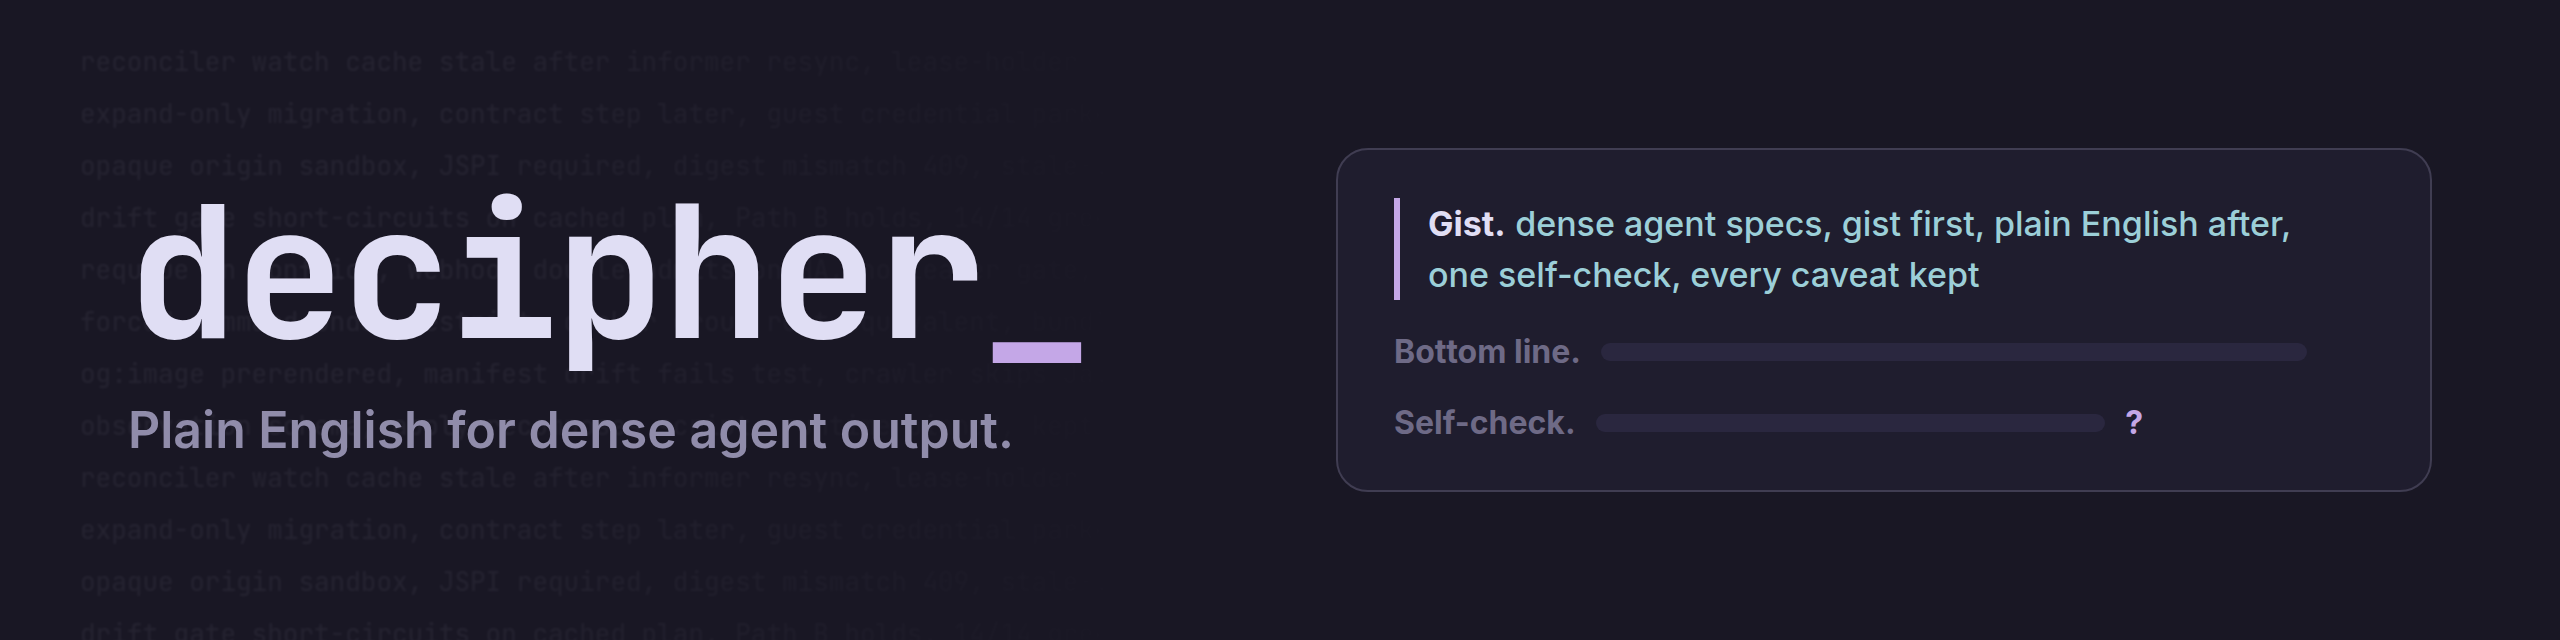
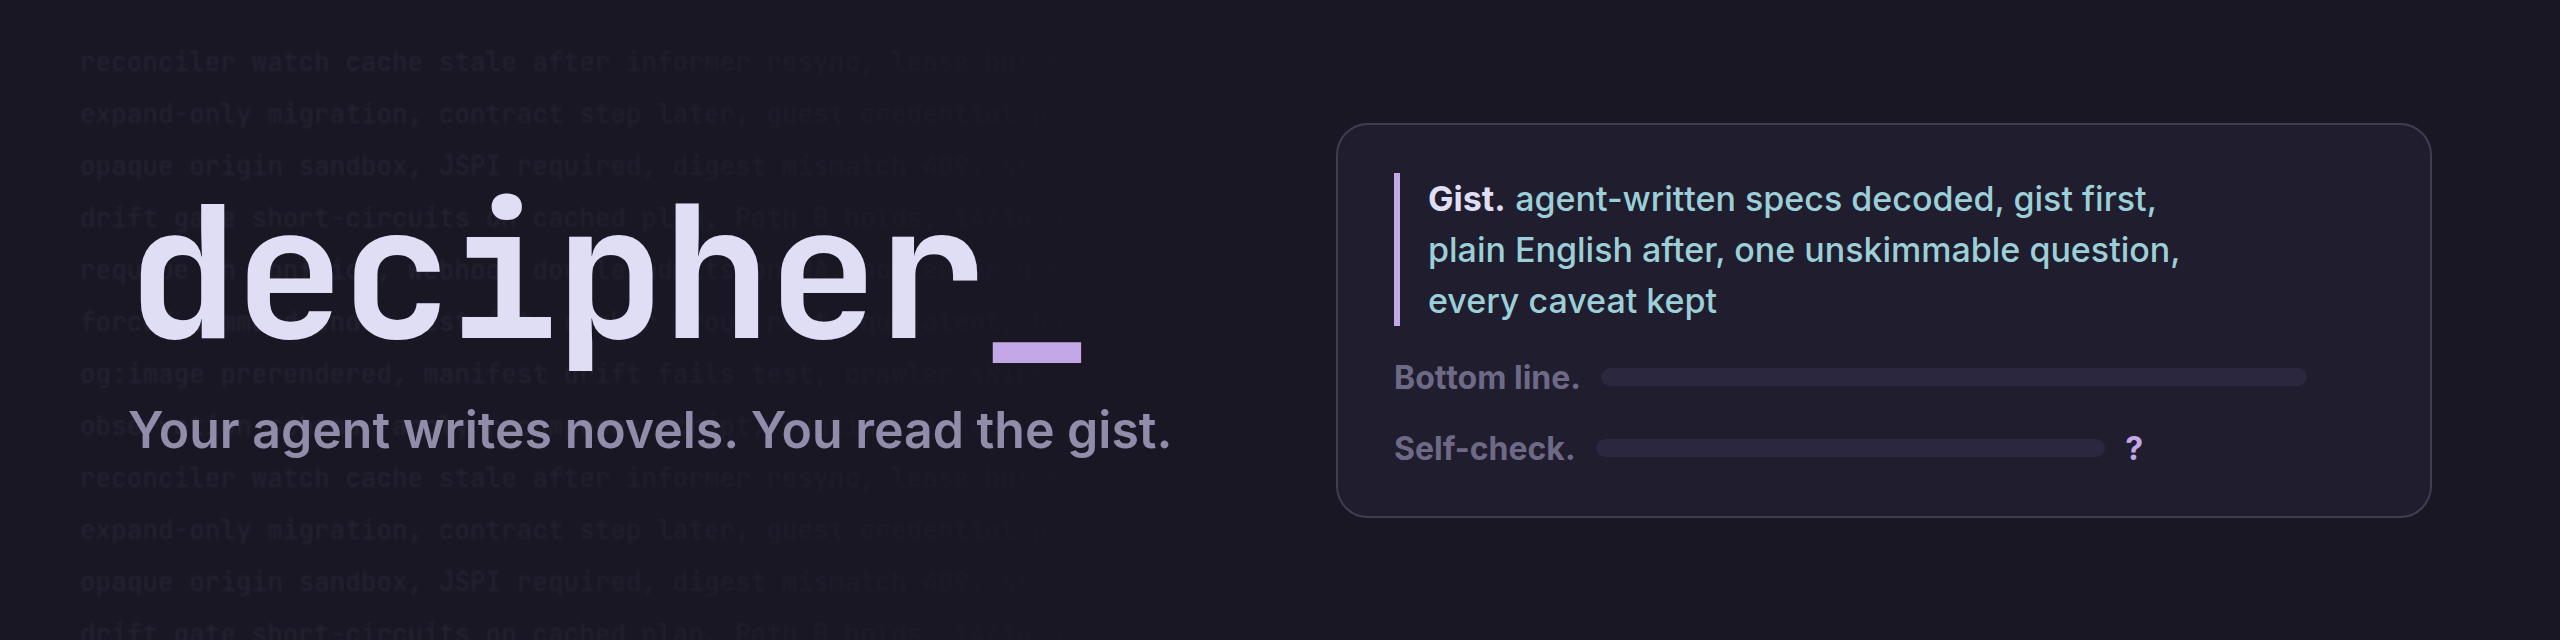
Rewrite the README in decipher's own format with a bolder voice
The README now opens with its own Gist, Bottom line, and Self-check, and
the copy is shorter and more direct. The banner and social preview carry
the tagline "Your agent writes novels. You read the gist." The hero and
example show a current-format run whose first three parts are the head.

diff --git a/assets/src/hero.html b/assets/src/hero.html
@@ -36,7 +36,7 @@
     --mark: #2a2837;
   }
   * { box-sizing: border-box; margin: 0; padding: 0; }
-  html, body { width: 880px; height: 400px; background: var(--base); }
+  html, body { width: 880px; height: 490px; background: var(--base); }
   body {
     font-family: "Inter", sans-serif;
     color: var(--text);
@@ -97,7 +97,9 @@
     border-radius: 4px;
   }
   .fade { color: var(--muted); }
-  body { grid-template-rows: 344px; }
+  body { grid-template-rows: 434px; }
+  .plain { font-size: 13px; line-height: 1.55; gap: 10px; }
+  .check { padding-top: 10px; border-top: 1px dashed var(--line); }
   .card { min-height: 0; overflow: hidden; }
   .spec { font-size: 12px; line-height: 1.65; color: var(--subtle); position: relative; overflow: hidden; flex: 1; }
   .spec h4 { font-size: 12.5px; color: var(--text); margin: 0 0 4px; }
@@ -112,22 +114,22 @@
 </head>
 <body>
   <div class="card before">
-    <div class="label"><span class="dot"></span>Agent-written spec<span class="count">1,323 words</span></div>
+    <div class="label"><span class="dot"></span>Agent-written spec<span class="count">1,618 words</span></div>
     <div class="spec">
       <h4>Goal</h4>
       <p>A LiCode link shared in Slack, LinkedIn, X, WhatsApp, iMessage or Discord unfurls into a card with the LiCode mark, a title and one line of description. A link to a case or a track shows that case's question or that track's destination, so a shared challenge reads as a challenge.</p>
       <h4>Sequence</h4>
       <p>Someone pastes a LiCode link into a chat or a post. That platform's crawler fetches the page without running JavaScript and reads the Open Graph and Twitter card tags in the HTML <code>&lt;head&gt;</code>. It then downloads the image the tags name and caches the card, usually for days.</p>
+      <p>The server writes those tags into <code>index.html</code> when it serves any page. It looks the requested path up in one function, <code>preview_for</code>, which returns the case, track or site card.</p>
     </div>
   </div>
   <div class="arrow">&rarr;</div>
   <div class="card after">
-    <div class="label"><span class="dot"></span>After decipher<span class="count">402 words</span></div>
+    <div class="label"><span class="dot"></span>After decipher<span class="count">you read 123 of 461 words</span></div>
     <div class="plain">
-      <p class="gist"><b>Gist.</b> <span>shared links become cards, case question not answer, images drawn ahead and committed, browser tab icon, approval and previews pending</span></p>
-      <p><b>Bottom line.</b> The spec makes a shared LiCode link show a card with a picture, a title and one line of text, instead of a bare URL. Nothing is built yet, because it waits for your approval and for you to see image previews.</p>
-      <p><b>Needs you.</b> Cloudflare's bot protection might block the crawlers without any error showing.</p>
-      <p class="fade">Terms, How it works, What changes, Held back &hellip;</p>
+      <p class="gist"><b>Gist.</b> <span>shared links become cards, server writes preview tags, images prerendered and committed, no answers on cards, text edits need rerender, merged but spec stale</span></p>
+      <p><b>Bottom line.</b> When someone pastes a LiCode link into a chat app, it now unfurls into a preview card, and the site has a browser tab icon. PR #18 merged this to main, and commit cb7cfce later re-rendered every image at double density. The spec's upper sections still describe a design the implementation replaced, so its &ldquo;Changes made during implementation&rdquo; list is the accurate part.</p>
+      <p class="check"><b>Self-check.</b> The spec draws every image ahead of time because the committed images cover every page that exists. Would you keep that design if cases started arriving without an author in the loop?</p>
     </div>
   </div>
 <script>

diff --git a/assets/src/social-preview.html b/assets/src/social-preview.html
@@ -68,7 +68,7 @@
   }
   .row { display: flex; align-items: center; gap: 12px; font-size: 20px; }
   .row b { font-weight: 700; white-space: nowrap; }
-  .gist { display: block; font-size: 25px; line-height: 1.45; padding-left: 18px; border-left: 4px solid var(--iris); }
+  .gist { display: block; font-size: 22px; line-height: 1.45; padding-left: 18px; border-left: 4px solid var(--iris); }
   .gist span { color: var(--pine); font-weight: 500; }
   .gist span span { white-space: nowrap; }
   .ghost b { color: var(--muted); }
@@ -101,11 +101,11 @@
   </div>
   <div class="brand">
     <div class="wordmark">decipher<span class="cursor">_</span></div>
-    <div class="tagline">Plain English for dense<br>agent output.</div>
+    <div class="tagline">Your agent writes novels.<br>You read the gist.</div>
     <div class="sub">A Claude Code plugin and Agent Skill</div>
   </div>
   <div class="head">
-    <div class="row gist"><b>Gist.</b> <span><span>dense agent specs,</span> <span>gist first,</span> <span>plain English after,</span> <span>one self-check,</span> <span>every caveat kept</span></span></div>
+    <div class="row gist"><b>Gist.</b> <span><span>agent-written specs decoded,</span> <span>gist first,</span> <span>plain English after,</span> <span>one unskimmable question,</span> <span>every caveat kept</span></span></div>
     <div class="row ghost"><b>Bottom line.</b> <i class="bar" style="width: 70%"></i></div>
     <div class="row ghost"><b>Self-check.</b> <i class="bar" style="width: 50%"></i><span class="q">?</span></div>
   </div>

diff --git a/assets/src/banner.html b/assets/src/banner.html
@@ -105,10 +105,10 @@
   </div>
   <div class="brand">
     <div class="wordmark">decipher<span class="cursor">_</span></div>
-    <div class="tagline">Plain English for dense agent output.</div>
+    <div class="tagline">Your agent writes novels. You read the gist.</div>
   </div>
   <div class="head">
-    <div class="row gist"><b>Gist.</b> <span><span>dense agent specs,</span> <span>gist first,</span> <span>plain English after,</span> <span>one self-check,</span> <span>every caveat kept</span></span></div>
+    <div class="row gist"><b>Gist.</b> <span><span>agent-written specs decoded,</span> <span>gist first,</span> <span>plain English after,</span> <span>one unskimmable question,</span> <span>every caveat kept</span></span></div>
     <div class="row ghost"><b>Bottom line.</b> <i class="bar" style="width: 72%"></i></div>
     <div class="row ghost"><b>Self-check.</b> <i class="bar" style="width: 52%"></i><span class="q">?</span></div>
   </div>

diff --git a/README.md b/README.md
@@ -1,11 +1,15 @@
 <p align="center">
   <picture>
     <source media="(prefers-color-scheme: dark)" srcset="assets/banner-dark.png">
-    <img alt="decipher. Plain English for dense agent output." src="assets/banner-light.png" width="100%">
+    <img alt="decipher. Your agent writes novels. You read the gist." src="assets/banner-light.png" width="100%">
   </picture>
 </p>
 
-decipher is a Claude Code plugin and Agent Skill that translates an agent-written spec, or any other technical document, into plain English an experienced engineer can follow on the first read. It keeps every identifier, number, and caveat.
+**Gist.** agent-written specs decoded, gist first, plain English after, one unskimmable question, every caveat kept
+
+**Bottom line.** Your agent writes a 1,600-word spec, and you approve it after a skim. decipher rewrites any agent-written document so its first three parts carry the whole idea in plain English, in about 120 words. The rest waits below as reference, and anything it skips is named.
+
+**Self-check.** You approved your agent's last spec. Could you name its riskiest assumption without opening it?
 
 [![validate](https://github.com/amk9978/decipher/actions/workflows/validate.yml/badge.svg)](https://github.com/amk9978/decipher/actions/workflows/validate.yml)
 [![License: MIT](https://img.shields.io/badge/license-MIT-blue.svg)](LICENSE)
@@ -13,19 +17,19 @@ decipher is a Claude Code plugin and Agent Skill that translates an agent-writte
 
 <picture>
   <source media="(prefers-color-scheme: dark)" srcset="assets/hero-dark.png">
-  <img alt="A 1,323-word agent-written spec on the left, and the opening of decipher's 402-word reply on the right, starting with its Gist line" src="assets/hero-light.png" width="880">
+  <img alt="A 1,618-word agent-written spec on the left, and the first three parts of decipher's reply on the right, its Gist, Bottom line, and Self-check" src="assets/hero-light.png" width="880">
 </picture>
 
 ## Install
 
-**Claude Code** gets the skill and the output style:
+**Claude Code** gets the skill and an always-on output style.
 
 ```text
 /plugin marketplace add amk9978/claude-plugins
 /plugin install decipher@amk9978
 ```
 
-**Other agents that read `SKILL.md`** get the skill:
+**Any other agent that reads `SKILL.md`** gets the skill.
 
 ```bash
 npx skills add amk9978/decipher
@@ -45,101 +49,94 @@ ln -s ~/decipher/output-styles/decipher.md ~/.claude/output-styles/decipher.md
 
 </details>
 
-## The problem
-
-Agent replies drift into shorthand. They use labels the agent invented, such as "Path B", and project terms nobody defined. They list files before saying what changed, and they report "31/31 green" without saying who ran the tests. A long report loses you by the third section, and a follow-up question loses your place.
-
-decipher fixes the reply you already have. Every explanation opens with the same head. The Gist is a few word phrases that carry the whole idea, the Bottom line says what the document does, and the Self-check tests whether you still follow. Many readers stop there. Needs you, How it works, What changes, and Held back follow as reference, with Terms added only when the source is heavy with jargon. The fixed layout teaches you where to look, and the reply stays under about 400 words however long the source is. decipher defines each term before the text uses it, puts events in the order they happened, and keeps what the source claims apart from what anyone verified.
-
-The Self-check is one question built from the document's own premise, which you answer to yourself. It asks for your judgment on the matter, so you can't answer it by scrolling back. If you can't answer it, you have stopped following, and that is the moment to step back before you approve anything.
-
-## Why not just ask for shorter output?
-
-A concision rule in `CLAUDE.md` or a planning plugin changes what an agent writes next. decipher works on a document that already exists, including one a teammate, another tool, or an earlier session wrote. It rewrites that document for a reader who lost the thread. It defines the source's terms from the source, puts events in time order, separates what the document claims from what anyone verified, and keeps your place through a long read. The output gets shorter only because it leaves out what you do not need.
-
 ## Use
 
-decipher works best on agent-written specs and design docs. It also handles PRs, reports, incident write-ups, READMEs, and agent replies. Say one of these after a document you could not follow.
-
-| You say | decipher does |
-|---|---|
-| simplify this, explain that again | Rewrites the latest reply, or a passage you name, in plain English |
-| walk me through a PR, report, or spec | Maps it into three to five parts and explains one part per turn |
-| continue, back, all at once, stop | Moves through a walkthrough |
-| I'm lost | Rebuilds the explanation from the goal with a different example |
-
-Every walkthrough turn ends with a bookmark footer. Side questions leave the bookmark where it was, and your unanswered questions stay under **Open** until they are answered.
-
-```markdown
-**Paused at:** part 2 of 4, retry logic
-**Open:** why the lock is per-tenant (+1 more)
-**Next:** part 3 of 4, the migration
-```
-
-### Plain replies on every turn
-
-The plugin and the clone install also ship an output style that applies decipher's writing rules to every reply. Select it in `~/.claude/settings.json`. A plugin install names it `decipher:Decipher`, and a clone install names it `Decipher`.
-
-```json
-{ "outputStyle": "decipher:Decipher" }
-```
-
-## Example
-
-A real run on a 1,323-word agent-written spec for link previews in LiCode, a code-review practice app. The reply is 402 words.
+Point it at a document, or say "decipher" after a reply that lost you.
 
 ```text
 /decipher specs/link-previews.md
 ```
 
-Opening of the reply:
+| Say | Get |
+|---|---|
+| decipher, simplify this | The latest reply or a named document, rewritten |
+| decipher, again on the same document | A new angle with none of the earlier sentences |
+| walk me through a spec, PR, or report | Three to five parts, one per turn, with a bookmark |
+| continue, back, all at once, stop | Moves through the walkthrough |
+| I'm lost | The goal again, from a different angle |
 
-**Gist.** shared links become cards, case question not answer, images drawn ahead and committed, browser tab icon, approval and previews pending
+Specs and design docs are home turf. PRs, reports, incident write-ups, READMEs, and agent replies work too.
 
-**Bottom line.** The spec makes a shared LiCode link show a card with a picture, a title and one line of text, instead of a bare URL. Nothing is built yet, because it waits for your approval and for you to see image previews. The only design choice that isn't routine is drawing the card images ahead of time.
+## Every answer, same shape
+
+```text
+Gist.          a few words that carry the whole idea
+Bottom line.   what it does, where it stands, what backs it
+Self-check.    one question you answer to yourself
+-------------  most readers stop here
+Terms.         only when the jargon would lose you
+Needs you.     decisions, blockers, risks
+How it works.  the steps, in order
+What changes.  who and what feels it
+Held back.     everything skipped, by name
+```
+
+The Self-check is the point. It comes from the document's own premise and asks for your judgment, so scrolling back won't answer it. Can't answer it? You've stopped steering. Take the wheel back before you approve anything.
+
+## "Can't I just tell Claude to be concise?"
+
+Go ahead. A concision rule shapes the next thing your agent writes. The 1,600-word spec already in your repo stays 1,600 words, and so does the PR a teammate's agent opened. decipher works on what already exists. It defines the jargon from the source, keeps what the document claims apart from what anyone verified, and checks that you still follow.
+
+## Always on
+
+The plugin also ships an output style that puts every reply in plain English. Select it in `~/.claude/settings.json`. A plugin install names it `decipher:Decipher`, and a clone install names it `Decipher`.
+
+```json
+{ "outputStyle": "decipher:Decipher" }
+```
+
+While decipher's rules apply, its own limits replace brevity budgets from other output styles, `CLAUDE.md`, and `AGENTS.md`. Your accuracy and punctuation rules still win.
+
+## A real run
+
+`/decipher` on a 1,618-word agent-written spec for link previews in LiCode, a code-review practice app. The reply runs 461 words, and the three parts you read first run 123.
 
 <details>
 <summary>Full reply</summary>
 
-**Gist.** shared links become cards, case question not answer, images drawn ahead and committed, browser tab icon, approval and previews pending
+**Gist.** shared links become cards, server writes preview tags, images prerendered and committed, no answers on cards, text edits need rerender, merged but spec stale
 
-**Bottom line.** The spec makes a shared LiCode link show a card with a picture, a title and one line of text, instead of a bare URL. Nothing is built yet, because it waits for your approval and for you to see image previews. The only design choice that isn't routine is drawing the card images ahead of time.
+**Bottom line.** When someone pastes a LiCode link into a chat app, it now unfurls into a preview card, and the site has a browser tab icon. PR #18 merged this to main, and commit cb7cfce later re-rendered every image at double density. The spec's upper sections still describe a design the implementation replaced, so its "Changes made during implementation" list is the accurate part.
 
-**Terms.**
-- **card**: the box a chat or social app shows for a pasted link
-- **crawler**: the program Slack, LinkedIn or X sends to read a pasted page
-- **manifest**: a file recording the text each committed image was drawn from
+**Self-check.** The spec draws every image ahead of time because the committed images cover every page that exists. Would you keep that design if cases started arriving without an author in the loop?
 
 **Needs you.**
-- Approve the spec, or tell me what to change.
-- Say whether I should render previews of the site card, a case card, a track card and the tab icon first.
-- After deploy, Cloudflare's bot protection might block the crawlers without any error showing, so the PR will record checks in each platform's inspector.
+- Four sections and the third open question still describe work the code replaced or finished, such as `manifest.json` and hand-numbered `-v1` image names.
+- Criterion 9 names the Facebook and LinkedIn inspectors and a Slack paste. The PR #18 comment instead records crawler user-agent requests and opengraph.xyz, and those checks ran before cb7cfce renamed every image.
+- The site card avoids calling every case real because LiCode's authors wrote the Cancel cleanly track and both investigation cases themselves.
+- Home still leads with "Make the call before you know how it ended", which may read as a different product from the card.
 
 **How it works.**
-1. A person pastes a LiCode link, and the app's crawler fetches that page without running JavaScript.
-2. LiCode's server adds the card details to the page it sends, because React's tags would arrive too late for a crawler.
-3. The server picks the details from the address. A case link gets its question, a track link gets its destination, and every other page gets the site card.
-4. A card shows only what the page shows before anyone answers, so it never reveals an answer, outcome or sender.
-5. The server can't draw images, because production has no browser or image library, so a script draws every image ahead of time.
-6. A test fails if a question changes after its image was drawn, which forces a redraw before release.
+1. A platform's crawler fetches the pasted page without running JavaScript and reads the tags in its `<head>`.
+2. The server passes the path to `preview_for`, which picks the case, track or site card.
+3. A case card shows the case's question, and a track card shows the track's destination. Every other path, including an unknown one, gets the site card.
+4. The server writes that card's tags into `index.html`, with absolute URLs only when `LICODE_PUBLIC_ORIGIN` is set.
+5. An author renders every image with a Playwright script and commits the PNGs, because the server has no way to draw images.
+6. Each image name carries a hash of its card's text, and a test fails until that image exists.
 
 **What changes.**
-- Links unfurl everywhere, and a shared case reads as a challenge, which the share buttons spec depends on.
-- Apps cache a card for about a week, so a changed image ships under a new versioned filename.
-- Images stay under 300 KB, because WhatsApp drops larger ones.
-- The browser tab gets an icon, and /favicon.ico stops returning the page's HTML.
+- Editing a question, track title or destination breaks the tests until someone reruns the render script and commits the new PNG.
+- An edited card gets a new image URL, so platforms skip the copy they cached for up to a week.
+- A card shows only what its page shows before an answer, and a test checks every case.
+- `/favicon.ico` used to return the page HTML and now returns an icon, and pages now answer `HEAD` requests.
 
-**Held back.** The exact card text for each page kind, the image layout, escaping rules, the no-public-address local behaviour and the file list.
+**Held back.** The card table's exact wording, the site card mockup and visual style, HTML escaping, the WhatsApp size limit, the Cloudflare check, and the one-row database read.
 
 </details>
 
-## How it works
-
-The skill holds every rule. The output style is a short switch that tells Claude to load the skill at the start of each session and again after compaction. While the rules apply, the fixed format's limits replace brevity budgets from other output styles, `CLAUDE.md`, and `AGENTS.md`. Accuracy and punctuation rules from the host still apply.
-
 ## Feedback
 
-Found a reply decipher left unclear? [Open an issue](https://github.com/amk9978/decipher/issues/new?template=unclear-reply.yml) with the original text, decipher's reply, and the point where you lost the thread. Real failures are how the rules improve.
+decipher left you lost? That's a bug. [Open an issue](https://github.com/amk9978/decipher/issues/new?template=unclear-reply.yml) with the original text and the reply.
 
 ## License
 
